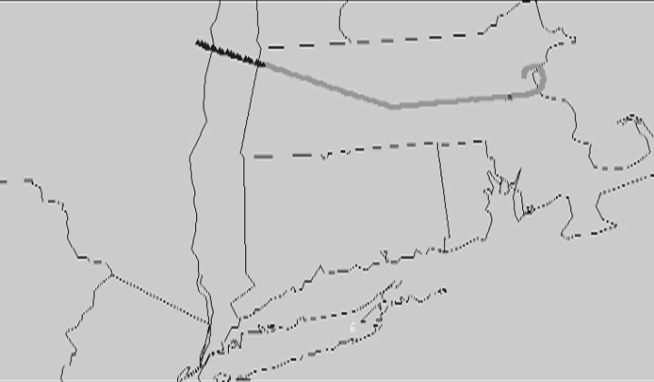
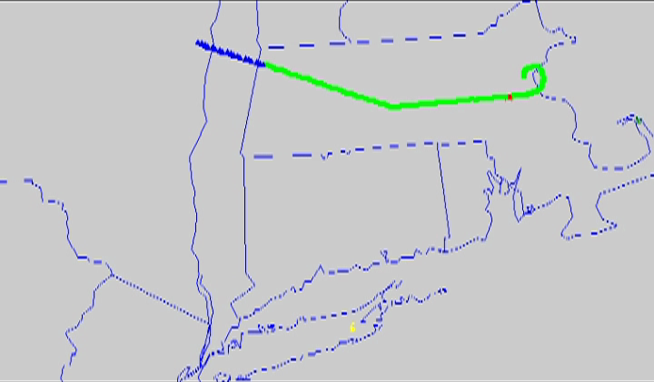
21本目 ⑤b-3 試し焼き 38211008702 の直し: 通過の矢印（c211）・扉の輪と鍵を板と一緒に縮める（c307）・1986年と2001年の札（c309）・寄せない戦闘機の位置（c313）・RG237 を元の色に（c408）・建物の札（c411）・8:25 の札（c412）
- c211：gate の段の層が欄の名を "pass" で見ていた（欄は "pass_"）＝通過の矢印と「通過」が出ていなかった
- c307：扉が開くと金庫の輪と鍵を薄めて消す作り＝最後のコマで開いた所に半ば消えた輪と鍵が浮いた＝板と同じ式で蝶番の側へ縮める
- c309：2001年9月11日の札を左へ振ると「1986年」の札と横に並んで1つに読めた＝右へ・年だけ（「2001年」）
- c313：寄せない戦闘機（破線）が主翼に重なった＝機首の左上へ・札は主翼の先から離す（geom_gap）
- c408：RG237 の1コマを灰色にしていた＝元の色（航跡の緑と青）のまま
- c411：「乗っ取りと分かる」の枠の下の辺が建物の札に重なった・c412：8:25 の札が縮んで小さかった＝短く
- qa_all 27/29（落ちてよい2本＝cuts・wrap）

diff --git a/tools/mech21.py b/tools/mech21.py
@@ -322,9 +322,9 @@ def gate_stage(prev, st):
     if _on(prev, st, "wand"):
         wx, wy = GT["wand"]
         s.append(F.rect(wx - 26, wy - 98, 52, 216, "none", J.AMBER, 5, rx=18))
-    if _on(prev, st, "pass"):
+    if _on(prev, st, "pass_"):        # 🔴 試し焼き ep21_b3：欄の名を "pass" で見ていた＝通過の矢印が出なかった
         y = GT["floor"] - 60
-        s.append(_arrow(GT["arch"][1] + GT["aw"] / 2 + 10, y, GT["exit"][1], y, J.AMBER, 7, 28))
+        s.append(_arrow(GT["arch"][-1] + GT["aw"] / 2 + 10, y, GT["exit"][1], y, J.AMBER, 7, 28))
         s.append(F.txtfit((GT["exit"][0] + GT["exit"][1]) / 2, y - 40, "通過", 300, cap=36, col=J.AMBER, anchor="middle"))
     return s
 
@@ -428,23 +428,31 @@ def door_base(st0):
 
 
 def door_parts(st):
+    """扉の板と、板に付いた物（金庫の枠・輪・鍵）。開くと板ごと蝶番の側（左）へ縮む＝付いた物も同じ式で縮める
+    （⚠ 試し焼き ep21_b3：輪と鍵を薄めて消す作りだと、開いた所に半ば消えた輪と鍵が浮いて残った＝c307 の最後のコマ）"""
     dx0, dy0, dx1, dy1 = DR["door"]
-    w = (dx1 - dx0) * (DR_OPEN if st["door"] == "open" else 1.0)
+    k = DR_OPEN if st["door"] == "open" else 1.0
     sk = 26.0 if st["door"] == "open" else 0.0
-    panel = [(dx0, dy0), (dx0 + w, dy0 + sk), (dx0 + w, dy1 - sk), (dx0, dy1)]
+    w0 = dx1 - dx0
+
+    def P(x, y):
+        u = (x - dx0) / w0                                  # 蝶番からの割合（0＝蝶番・1＝取っ手の側）
+        return (dx0 + (x - dx0) * k, y + sk * u * (1 if y < (dy0 + dy1) / 2 else -1))
+    panel = [P(dx0, dy0), P(dx1, dy0), P(dx1, dy1), P(dx0, dy1)]
+    vault = [P(dx0 + 10, dy0 + 10), P(dx1 - 10, dy0 + 10), P(dx1 - 10, dy1 - 10), P(dx0 + 10, dy1 - 10)]
+    cx, cy = (dx0 + dx1) / 2, (dy0 + dy1) / 2
+    wheel = [P(cx + 54 * math.cos(2 * math.pi * i / 24), cy + 54 * math.sin(2 * math.pi * i / 24)) for i in range(24)]
     lx, ly = DR["lock"]
-    vis = 1.0 if st["lock"] in ("on", "open") else 0.0
     up = -18.0 if st["lock"] == "open" else 0.0
-    lk_a = vis * (1.0 if st["door"] != "open" else 0.0)
+    lk_a = 1.0 if st["lock"] in ("on", "open") else 0.0
+    va = 1.0 if st["vault"] == "on" else 0.0
     return [_P("panel", "poly", panel, fill=COL["door"], stroke=COL["door_ln"], w=4),
-            _P("vault", "poly", [(dx0 + 10, dy0 + 10), (dx1 - 10, dy0 + 10), (dx1 - 10, dy1 - 10), (dx0 + 10, dy1 - 10)],
-               fill=None, stroke=J.LINE, w=14, alpha=(1.0 if st["vault"] == "on" and st["door"] != "open" else 0.0)),
-            _P("wheel", "circle", c=((dx0 + dx1) / 2, (dy0 + dy1) / 2), r=54, fill=None, stroke=J.LINE, w=10,
-               alpha=(1.0 if st["vault"] == "on" and st["door"] != "open" else 0.0)),
-            _P("lk_body", "poly", [(lx - 30, ly), (lx + 30, ly), (lx + 30, ly + 50), (lx - 30, ly + 50)], fill=J.AMBER, stroke=COL["dark"],
-               w=3, alpha=lk_a),
-            _P("lk_shk", "line", [(lx - 18, ly), (lx - 18, ly - 26), (lx + 18, ly - 26), (lx + 18, ly - 8)],
-               stroke=J.AMBER, w=8, alpha=lk_a, dy=up)]
+            _P("vault", "poly", vault, fill=None, stroke=J.LINE, w=14, alpha=va),
+            _P("wheel", "poly", wheel, fill=None, stroke=J.LINE, w=10, alpha=va),
+            _P("lk_body", "poly", [P(lx - 30, ly), P(lx + 30, ly), P(lx + 30, ly + 50), P(lx - 30, ly + 50)], fill=J.AMBER,
+               stroke=COL["dark"], w=3, alpha=lk_a),
+            _P("lk_shk", "line", [P(lx - 18, ly + up), P(lx - 18, ly - 26 + up), P(lx + 18, ly - 26 + up), P(lx + 18, ly - 8 + up)],
+               stroke=J.AMBER, w=8, alpha=lk_a)]
 
 
 def door_stage(prev, st):
@@ -583,7 +591,7 @@ def chain_stage(prev, st):
 # ══════════════════════════════════════════════════════════
 #  escort（c313）＝乗っ取られた機と後ろの戦闘機（上から・進む向きが右）
 # ══════════════════════════════════════════════════════════
-ES = dict(plane=(1330.0, 560.0), fighter=(470.0, 560.0), near=(1330.0, 380.0), Lp=420.0, Lf=150.0)
+ES = dict(plane=(1330.0, 560.0), fighter=(470.0, 560.0), near=(1500.0, 420.0), Lp=420.0, Lf=150.0)   # ⚠ 試し焼き：near (1330, 380) は主翼に重なった
 ES_MILES = 5                                       # 委員会報告 p18「five miles directly behind the hijacked aircraft」
 ES_KM = round(ES_MILES * 1.609344)                  # ＝8（台本 §9）
 
@@ -606,8 +614,8 @@ def escort_stage(prev, st):
         s += [F.line(xa, y, xb, y, J.AMBER, 4), F.line(xa, y - 16, xa, y + 16, J.AMBER, 4), F.line(xb, y - 16, xb, y + 16, J.AMBER, 4)]
     if _on(prev, st, "near"):
         x, y = ES["near"]
-        s.append(_plane_top(x - 30, y, ES["Lf"], col=J.TICK, fighter=True, dash="10 8"))
-        s.append(_xmark(x - 30, y, 34))
+        s.append(_plane_top(x, y, ES["Lf"], col=J.TICK, fighter=True, dash="10 8"))
+        s.append(_xmark(x, y, 34))
     return s
 
 
@@ -789,7 +797,7 @@ def radio_stage(prev, st):
     if _on(prev, st, "v2"):
         s.append(_waves(ax - 30, ay + 20, ang, 3, 110))
     if _on(prev, st, "know"):
-        s.append(F.rect(cx - 140, cy - 90, 280, 180, "none", J.AMBER, 6, rx=12))
+        s.append(F.rect(cx - 140, cy - 95, 280, 150, "none", J.AMBER, 6, rx=12))      # ⚠ 試し焼き：下の辺が建物の札に重なった
     return s
 
 
@@ -947,7 +955,7 @@ TAG_AT = dict(
     old=dict(chips=(L_X, 330.0, "start", 640.0), why=(1240.0, 560.0, "start", 560.0), none=(1560.0, 798.0, "start", 280.0)),
     chain=dict(tl=(L_X, 300.0, "start", 520.0), br=(1300.0, 780.0, "start", 520.0), cape=(L_X, 830.0, "start", 110.0),
                hqx=(L_X, 330.0, "start", 520.0), ac=(620.0, 330.0, "start", 400.0)),     # ⚠ ac の幅 520 だと国防長官の箱（x 1040〜）にかかる
-    escort=dict(dim=(830.0, 820.0, "middle", 520.0), near=(1200.0, 300.0, "end", 560.0)),
+    escort=dict(dim=(830.0, 820.0, "middle", 520.0), near=(1250.0, 300.0, "end", 520.0)),     # ⚠ geom_gap：x 1400 の注の行が主翼の先に触れた
     premise=dict(x1=(L_X, 760.0, "start", 760.0)),
     cabin=dict(n33=(L_X, 330.0, "start", 640.0), none=(1240.0, 430.0, "start", 560.0), start=(1180.0, 300.0, "start", 620.0),
                how=(620.0, 300.0, "start", 520.0)),          # front の胴は y 410〜710＝札は上の段（y 300）

diff --git a/tools/cuts/ss.py b/tools/cuts/ss.py
@@ -637,7 +637,7 @@ AXI.update({
     "hj11": dict(k="pt", at="8:14", t="乗っ取りの始まり（委員会の見立て）", rec="委員会報告 p4", anchor="end"),
     "xpdr11": dict(k="pt", at="8:21", t="トランスポンダが切られる", rec="委員会報告 p18", anchor="end"),
     "voice11": dict(k="pt", at="8:24:38", t="管制の無線に声", rec="委員会報告 p19", anchor="start"),
-    "aware11": dict(k="pt", at="8:25", t="ボストン・センターが乗っ取りを知る", rec=["図表 p32", "委員会報告 p19"], c="INST", anchor="start"),
+    "aware11": dict(k="pt", at="8:25", t="ボストン・センターが知る", rec=["図表 p32", "委員会報告 p19"], c="INST", anchor="start"),
     "chain11": dict(k="span", a="8:25", b="8:32", t="FAA の上の段へ", rec="委員会報告 p19", c="INST"),
     "neads11": dict(k="pt", at="8:37:52", t="NEADS に知らせが届く", rec="委員会報告 p20", c="INST", anchor="end"),
     "scr11": dict(k="pt", at="8:46", t="発進の命令", rec="委員会報告 p20"),
@@ -650,7 +650,7 @@ AXI.update({
     "cs_all": dict(k="br", a="1960", b="2001-09-11", t="数十年の積み重ね", rec=["委員会報告 p85", "委員会報告 p1"]),
     "last86": dict(k="pt", at="1986", t="最後のテロの乗っ取り", rec="委員会報告 p85", anchor="end"),
     "quiet86": dict(k="span", a="1986", b="2001-09-11", t="起きていない", rec=["委員会報告 p85", "委員会報告 p1"], c="LINE"),
-    "day911": dict(k="pt", at="2001-09-11", t="この朝", rec="委員会報告 p1", c="ALERT", anchor="end"),
+    "day911": dict(k="pt", at="2001-09-11", t="この朝", rec="委員会報告 p1", c="ALERT", anchor="start", fmt="y"),   # ⚠ 試し焼き：左へ振ると「1986年」の札と横に並んで1つの札に読めた
 })
 
 

diff --git a/qa_out/ep21_assets.py b/qa_out/ep21_assets.py
@@ -425,12 +425,12 @@ def cmd_pages(only=None):
             frm = f"{Path(src).name} PDF {at}頁（{PAGE_DPI}dpi・灰色・{rot}度回して正立）"
             src_md5 = md5(EPD / src)
         else:
-            im = Image.open(HERE / src).convert("L")
+            im = Image.open(HERE / src).convert("RGB")            # 🔴 色は元のまま（試し焼き ep21_b3 は灰色にしていた＝航跡の緑と青が消えた）
             im = im.crop((0, RG_BAND[0], im.width, RG_BAND[1]))
             frm = f"`{src}`（{at}秒のコマ・上下の黒い帯 y 0〜{RG_BAND[0]}・{RG_BAND[1]}〜を切った）"
             src_md5 = md5(HERE / src)
         im.save(out)
-        a = np.asarray(im)
+        a = np.asarray(im.convert("L"))
         Hp, Wp = a.shape
         cuts, biases = {}, {}
         for cid, (p2, box) in PAGE_CUTS.items():
